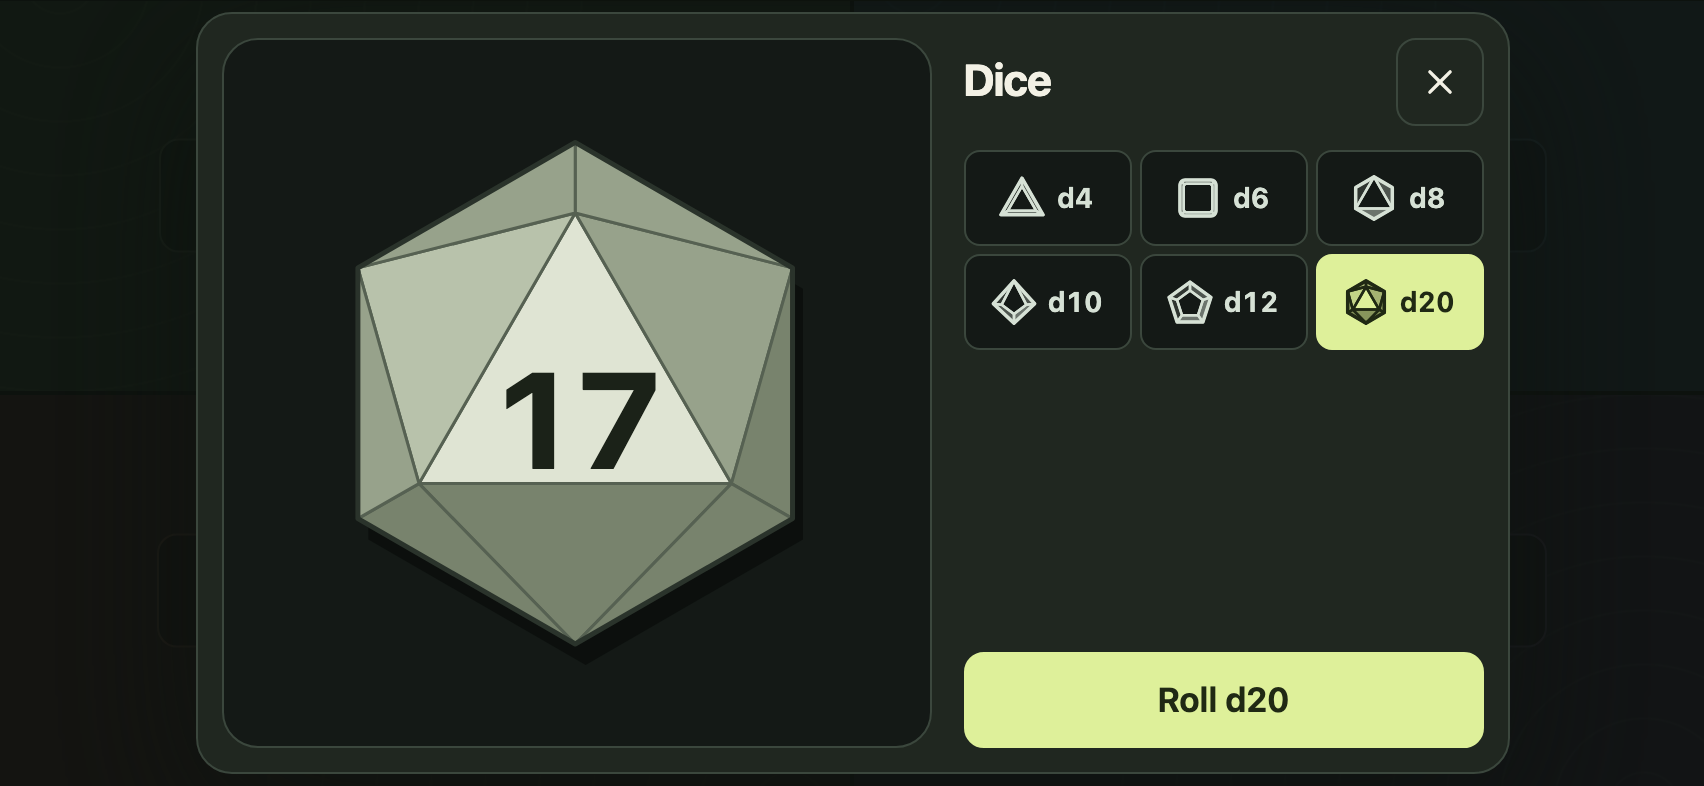
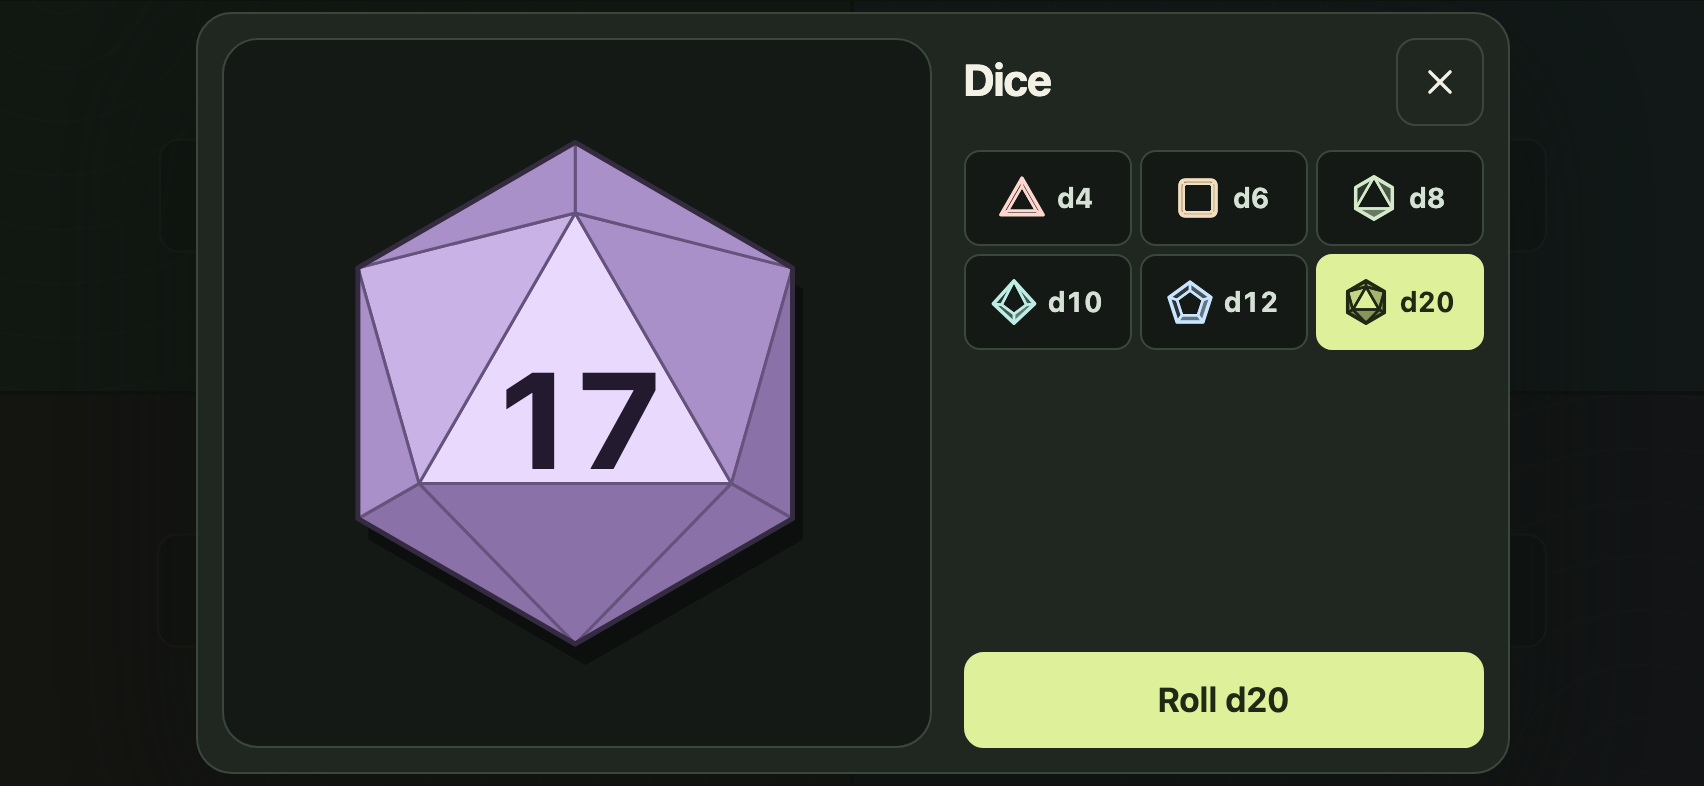
Give each die its own colour
Each die keeps the sage die's lightness steps in its own hue, following the seat
colours: d4 coral, d6 amber, d8 green, d10 teal, d12 blue, d20 violet. Unselected
picker icons draw in their die's colour. Re-render the dice screenshots.

diff --git a/web/styles.css b/web/styles.css
@@ -19,15 +19,7 @@
   /* A life total at 0 or below: a muted coral red, at least 4.8:1 on every player panel. */
   --life-out: #f49993;
 
-  /* Dice: a pale sage die, its side faces darker away from the light. See design/dice/SPEC.md. */
-  --die-front: #dfe4d3;
-  --die-side-1: #b8c2ab;
-  --die-side-2: #97a28b;
-  --die-side-3: #78836d;
-  --die-edge: #566152;
-  --die-outline: #2a332b;
-  --die-ink: #1b2218;
-  --die-ink-idle: #5b6656;
+  /* Dice: each die's own colours are under "Die colours" below. See design/dice/SPEC.md. */
   --die-shadow: #070a08;
   --dice-stage-pressed: #1a201c;
   --press-overlay: #f3f1e51a;
@@ -447,6 +439,33 @@ input:checked + .switch::after { transform: translateX(13px); background: var(--
   .dice-picker { align-content: start; }
 }
 
+/* Die colours. Each die keeps one hue, with the sage die's lightness steps: a pale front face, side faces
+   darker away from the light, and dark ink. Ink is at least 12:1 on the front face and the quieter "d20" label
+   at least 4.9:1. The hues follow the seat colours, so the six dice are told apart at a glance. */
+[data-sides="4"] { /* coral */
+  --die-front: #ffd7cf; --die-side-1: #eaaca1; --die-side-2: #cd8a7e; --die-side-3: #ab6b60;
+  --die-edge: #804e45; --die-outline: #422924; --die-ink: #301814; --die-ink-idle: #7e4f48;
+}
+[data-sides="6"] { /* amber */
+  --die-front: #f3debd; --die-side-1: #d7b986; --die-side-2: #b9985f; --die-side-3: #997940;
+  --die-edge: #72582c; --die-outline: #3b2e18; --die-ink: #291d07; --die-ink-idle: #715931;
+}
+[data-sides="8"] { /* green */
+  --die-front: #d3e9c8; --die-side-1: #a9c999; --die-side-2: #87aa74; --die-side-3: #688a56;
+  --die-edge: #4c663d; --die-outline: #273520; --die-ink: #172410; --die-ink-idle: #4e6640;
+}
+[data-sides="10"] { /* teal */
+  --die-front: #bdede5; --die-side-1: #84cec4; --die-side-2: #59afa4; --die-side-3: #368f85;
+  --die-edge: #246a62; --die-outline: #153733; --die-ink: #032622; --die-ink-idle: #2b6a62;
+}
+[data-sides="12"] { /* blue */
+  --die-front: #c9e5ff; --die-side-1: #95c3eb; --die-side-2: #70a3cf; --die-side-3: #5184ae;
+  --die-edge: #396182; --die-outline: #1e3243; --die-ink: #0e2131; --die-ink-idle: #3d6180;
+}
+[data-sides="20"] { /* violet */
+  --die-front: #e9dafd; --die-side-1: #c9b2e5; --die-side-2: #aa90c8; --die-side-3: #8a71a7;
+  --die-edge: #66537d; --die-outline: #352b41; --die-ink: #241a2f; --die-ink-idle: #66547b;
+}
 /* The die, shared by the stage and the picker icons. */
 .die-face, .die-outline { stroke-linejoin: round; vector-effect: non-scaling-stroke; }
 .die-body .die-face { stroke: var(--die-edge); stroke-width: 1.5px; }
@@ -469,6 +488,8 @@ input:checked + .switch::after { transform: translateX(13px); background: var(--
   transform-origin: center;
 }
 .die-number[data-idle] { fill: var(--die-ink-idle); font-weight: var(--weight-semibold); letter-spacing: -.02em; }
+/* Unselected, the picker icon draws in the die's colour. Selected, it takes the button's dark ink. */
+.dice-picker button:not([aria-pressed="true"]) .die-icon { color: var(--die-front); }
 .die-icon .die-face, .die-icon .die-outline { stroke: currentColor; }
 .die-icon .die-face { stroke-width: 1.25px; }
 .die-icon .die-outline { fill: none; stroke-width: 1.75px; }

diff --git a/web/dice.js b/web/dice.js
@@ -88,8 +88,11 @@ window.lifePodDice = (() => {
     return node;
   }
 
-  function svg(className) {
-    return element('svg', { viewBox: '0 0 100 100', class: className, 'aria-hidden': 'true', focusable: 'false' });
+  // data-sides picks the die's colour in styles.css.
+  function svg(className, count) {
+    return element('svg', {
+      viewBox: '0 0 100 100', class: className, 'data-sides': count, 'aria-hidden': 'true', focusable: 'false',
+    });
   }
 
   function body(count) {
@@ -101,9 +104,9 @@ window.lifePodDice = (() => {
     return group;
   }
 
-  // A small one-colour die for the sides picker.
+  // A small line drawing of the die, in its colour, for the sides picker.
   function icon(count) {
-    const picture = svg('die-icon');
+    const picture = svg('die-icon', count);
     picture.append(body(count));
     return picture;
   }
@@ -111,9 +114,9 @@ window.lifePodDice = (() => {
   // The die on the stage: a shadow, then the body with its number.
   function stageDie(count) {
     const shape = shapes[count];
-    const shadow = svg('die-shadow');
+    const shadow = svg('die-shadow', count);
     shadow.append(element('polygon', { points: shape.outline }));
-    const die = svg('die-body');
+    const die = svg('die-body', count);
     die.append(body(count));
     const number = element('text', { class: 'die-number', x: shape.number.x, 'text-anchor': 'middle' });
     die.append(number);

diff --git a/design/dice/SPEC.md b/design/dice/SPEC.md
@@ -1,6 +1,6 @@
 # Dice roller: design spec
 
-**Status:** applied in `web/dice.js`, `web/app.js` and `web/styles.css`. The app uses `#f49993` for life totals at 0 or below.
+**Status:** applied in `web/dice.js`, `web/app.js` and `web/styles.css`. The app uses `#f49993` for life totals at 0 or below. Each die now has its own colour; see "Die colours" below.
 
 The muted, dark palette stays as it is. This adds one die body (pale sage "bone", built from the palette's greens) and one red for life totals that hit zero. Every value below is in `dice.css` (tokens and reference CSS), `shapes.js` (geometry) and `dice.js` (drawing, randomness, animation), and all of it is drawn in `renders/`.
 
@@ -65,7 +65,7 @@ Each die is drawn on a 100 × 100 viewBox, upright, with light from the upper le
 
 Visual weight: the square is drawn smaller (82) and the triangle and diamond use the full box, so the six sit at a similar optical size in a row (`renders/dice-large.png`). Single digits are capped at 40, so a d6 doesn't shout next to a d20.
 
-Stage colours (new tokens):
+Stage colours (the original sage die; each die now swaps these for its own ramp):
 
 | Token | Value | Use |
 |---|---|---|
@@ -78,6 +78,10 @@ Stage colours (new tokens):
 | `--die-ink` | `#1b2218` | number, 12.6:1 on the front face |
 | `--die-ink-idle` | `#5b6656` | "d20" before the first roll, 4.7:1 |
 | `--die-shadow` | `#070a08` at opacity .6 | outline copy offset (2%, 4%) under the die |
+
+### Die colours
+
+Each die has its own hue, set by `[data-sides]` on its SVGs in `web/styles.css`. The ramp keeps the sage die's OKLCH lightness steps (front .91, sides .80 / .70 / .59, edge .48, outline .31, ink .24, idle ink .48) with more chroma (.05 on the front, up to .085 on the sides). Hues follow the seat colours: d4 coral (30°), d6 amber (80°), d8 green (135°), d10 teal (185°), d12 blue (245°), d20 violet (305°). On every die the ink is at least 12.5:1 on the front face and the idle "d20" label at least 4.9:1. Unselected picker icons draw in their die's front colour, at least 13:1 on the sheet. The shadow is unchanged.
 
 Strokes use `vector-effect: non-scaling-stroke` and `stroke-linejoin: round` (set in CSS), so they stay 1.5px and 2.5px whatever the stage size. Give the shadow and body SVGs `position: relative` with z-index 0 and 1. The shadow's opacity makes a stacking context that would otherwise paint over the die.
 
